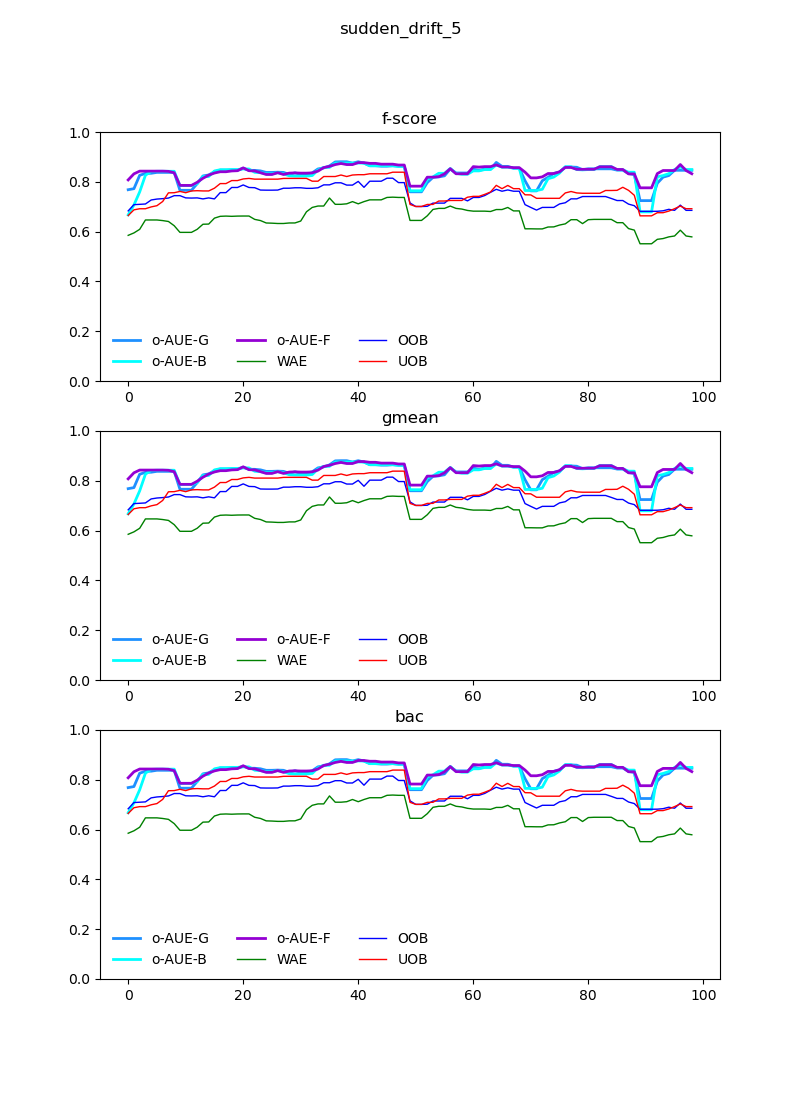
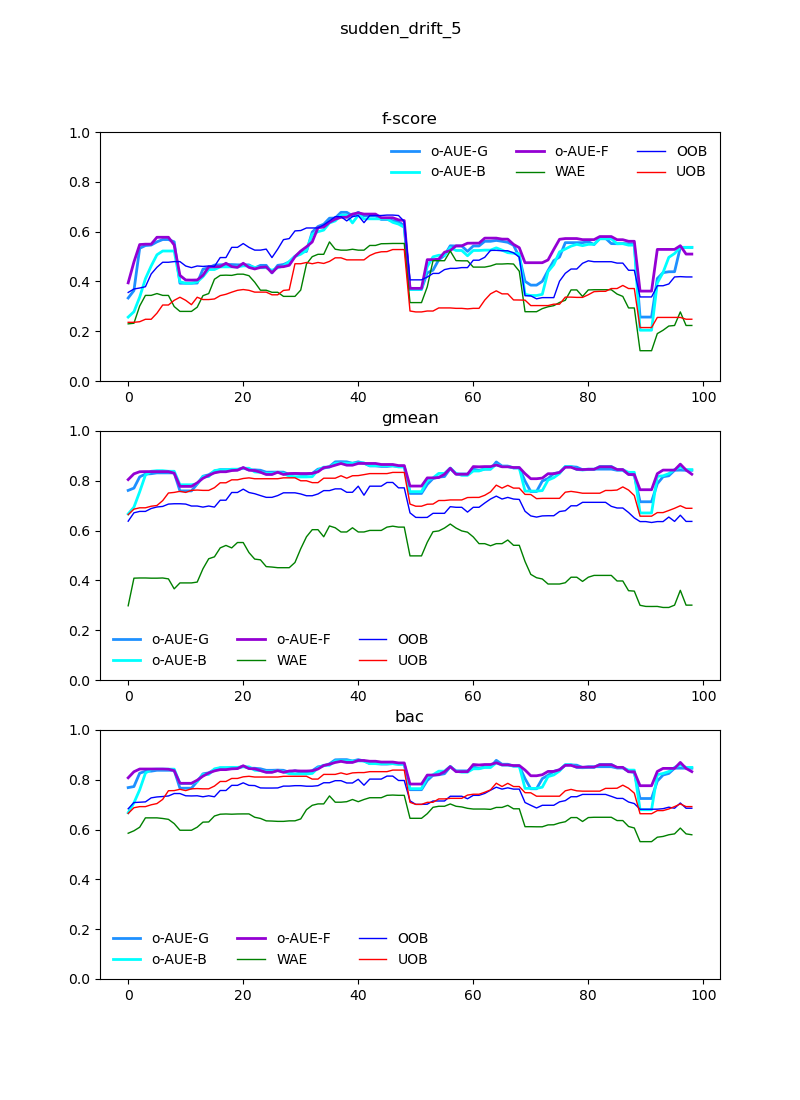
Added more figures

diff --git a/create_plot.py b/create_plot.py
@@ -1,0 +1,104 @@
+import numpy as np
+import matplotlib.pyplot as plt
+from scipy.signal import medfilt
+
+fnames = [
+    "sudden_drift_5",
+    "sudden_drift_10",
+    "sudden_drift_20",
+    "sudden_drift_30",
+    "gradual_drift_5",
+    "gradual_drift_10",
+    "gradual_drift_20",
+    "gradual_drift_30",
+]
+
+for ind, fname in enumerate(fnames):
+    results = np.load("wyniki_dobre_douczanie/Stream_%s_imbalance.npy" % fname)
+    results_mse = np.load("wyniki_mse_2/Stream_%s_imbalance.npy" % fname)
+    results_wo_samp = np.load("wyniki_same_wagi/Stream_%s_imbalance.npy" % fname)
+    new_results = np.concatenate((results, results_mse, results_wo_samp), axis=1)
+
+
+    new_results = np.mean(new_results, axis=0)
+    kernel = 5
+    metrics = ['f-score', 'gmean', 'bac']
+    for m_i, m in enumerate(metrics):
+        titles = ["models with modified weights", "models with oversampling", "models with undersampling"]
+        colors = [
+            [
+                "red",
+                "blue",
+                "darkorange",
+                "firebrick",
+                "chocolate",
+                "dodgerblue",
+                "cyan",
+                "darkviolet"
+            ],
+            [
+                "red",
+                "red",
+                "darkorange",
+                "firebrick",
+                "chocolate",
+                "blue",
+                "blue",
+                "dodgerblue",
+                "cyan",
+                "darkviolet"
+            ],
+            [
+                "red",
+                "red",
+                "darkorange",
+                "firebrick",
+                "chocolate",
+                "blue",
+                "blue",
+                "dodgerblue",
+                "cyan",
+                "darkviolet"
+            ],
+        ]
+        ls = [["-", "-", "-", "-", "-", "-", "-", "-"],
+              ["-", ":", "-", "-", "-", "-", ":", "-", "-", "-"],
+              ["-", ":", "-", "-", "-", "-", ":", "-", "-", "-"],
+              ]
+
+        labels = ['u-AWE-G', 'u-AWE-B', 'u-AWE-F', 'o-AWE-G', 'o-AWE-B', 'o-AWE-F',
+                  'u-AUE-G', 'u-AUE-B', 'u-AUE-F', 'o-AUE-G', 'o-AUE-B', 'o-AUE-F',
+                  'WAE', 'OOB', 'UOB', 'AWE', 'u-AWE', 'o-AWE', 'AUE', 'u-AUE', 'o-AUE', 'AWE-G', 'AWE-B', 'AWE-F',
+                  'AUE-G', 'AUE-B', 'AUE-F']
+
+
+        usages = [
+            [15, 18, 21, 22, 23, 24, 25, 26],
+            [15, 17, 3, 4, 5, 18, 20, 9, 10, 11],
+            [15, 16, 0, 1, 2, 18, 19, 6, 7, 8],
+        ]
+        lw = [
+            [0.5, 0.5, 2, 2, 2, 2, 2, 2],
+            [0.5, 1, 2, 2, 2, 0.5, 1, 2, 2, 2],
+            [0.5, 1, 2, 2, 2, 0.5, 1, 2, 2, 2],
+            ]
+
+        locs = [1, 3, 3]
+
+        print(new_results.shape)
+
+        fig, ax = plt.subplots(3, 1, figsize=(8, 11))
+        for i in range(3):
+            for j, row in enumerate(new_results[usages[i], :, m_i]):
+                res = medfilt(row, kernel)
+                ax[i].plot(res, c=colors[i][j], ls='-', label=labels[usages[i][j]], lw=lw[i][j])
+            ax[i].set_title(titles[i])
+            ax[i].set_ylim(0, 1)
+            ax[i].legend(ncol=3, frameon=False)
+
+        fig.suptitle(fname + " " + m)
+        # plt.tight_layout()
+        plt.savefig("foo.png")
+        plt.savefig("figures_new/%s.png" % (fname + " " + m))
+
+

diff --git a/create_plot_best_models.py b/create_plot_best_models.py
@@ -1,0 +1,92 @@
+import numpy as np
+import pandas as pd
+import matplotlib.pyplot as plt
+from scipy.signal import medfilt
+
+fnames = [
+    "sudden_drift_5",
+    "sudden_drift_10",
+    "sudden_drift_20",
+    "sudden_drift_30",
+    "gradual_drift_5",
+    "gradual_drift_10",
+    "gradual_drift_20",
+    "gradual_drift_30",
+]
+
+
+for ind, fname in enumerate(fnames):
+    results = np.load("wyniki_dobre_douczanie/Stream_%s_imbalance.npy" % fname)
+    results_mse = np.load("wyniki_mse_2/Stream_%s_imbalance.npy" % fname)
+    results_wo_samp = np.load("wyniki_same_wagi/Stream_%s_imbalance.npy" % fname)
+    new_results = np.concatenate((results, results_mse, results_wo_samp), axis=1)
+
+    new_results = np.mean(new_results, axis=0)
+    kernel = 5
+    metrics = ['f-score', 'gmean', 'bac']
+
+    colors = [
+            [
+                "dodgerblue",
+                "cyan",
+                "darkviolet",
+                "mediumslateblue",
+                "green",
+                "blue",
+                "red"
+            ],
+            [
+                "dodgerblue",
+                "cyan",
+                "darkviolet",
+                "mediumslateblue",
+                "green",
+                "blue",
+                "red"
+            ],
+            [
+                "dodgerblue",
+                "cyan",
+                "darkviolet",
+                "mediumslateblue",
+                "green",
+                "blue",
+                "red"
+            ],
+        ]
+
+    labels = ['u-AWE-G', 'u-AWE-B', 'u-AWE-F', 'o-AWE-G', 'o-AWE-B', 'o-AWE-F',
+              'u-AUE-G', 'u-AUE-B', 'u-AUE-F', 'o-AUE-G', 'o-AUE-B', 'o-AUE-F',
+              'WAE', 'OOB', 'UOB', 'AWE', 'u-AWE', 'o-AWE', 'AUE', 'u-AUE', 'o-AUE', 'AWE-G', 'AWE-B', 'AWE-F',
+              'AUE-G', 'AUE-B', 'AUE-F']
+
+    usages = [
+        [9, 10, 11, 26, 12, 13, 14],
+        [9, 10, 11, 26, 12, 13, 14],
+        [9, 10, 11, 26, 12, 13, 14],
+    ]
+
+    lw = [
+            [2, 2, 2, 2, 1, 1, 1],
+            [2, 2, 2, 2, 1, 1, 1],
+            [2, 2, 2, 2, 1, 1, 1],
+            ]
+    locs = [1, 3, 3]
+
+    print(new_results.shape)
+
+    fig, ax = plt.subplots(3, 1, figsize=(8, 11))
+    for i in range(3):
+        for j, row in enumerate(new_results[usages[i], :, i]):
+            res = medfilt(row, kernel)
+            ax[i].plot(res, c=colors[i][j], ls='-', label=labels[usages[i][j]], lw=lw[i][j])
+        ax[i].set_title(metrics[i])
+        ax[i].set_ylim(0, 1)
+        ax[i].legend(ncol=3, frameon=False)
+
+    fig.suptitle(fname)
+    # plt.tight_layout()
+    plt.savefig("foo.png")
+    plt.savefig("figures_best_models/%s.png" % fname)
+
+
